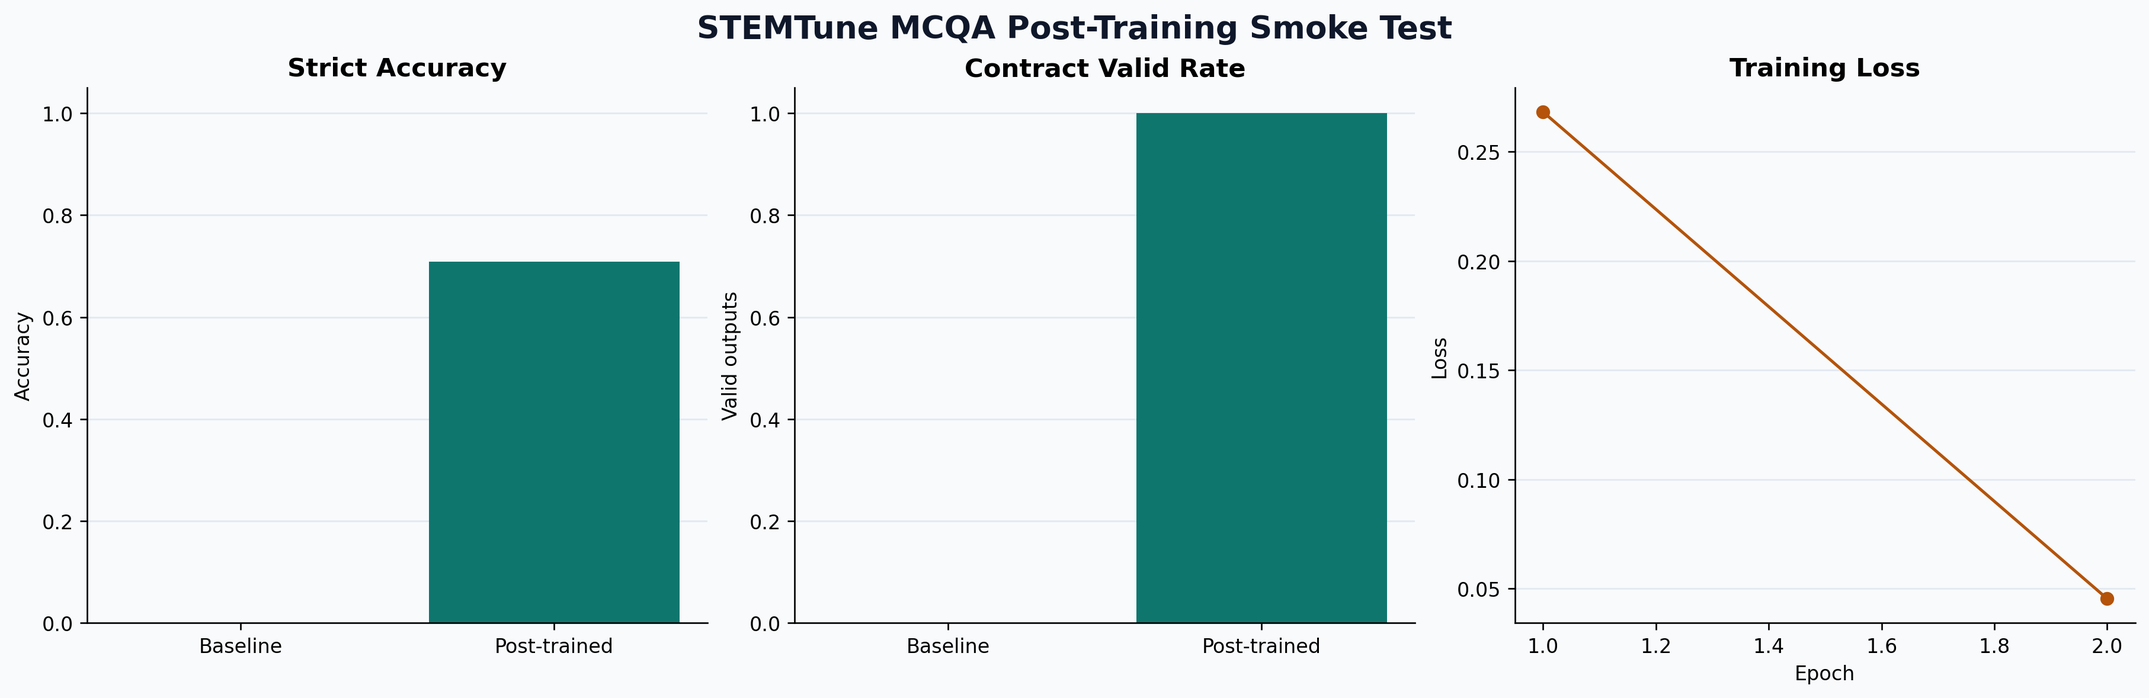
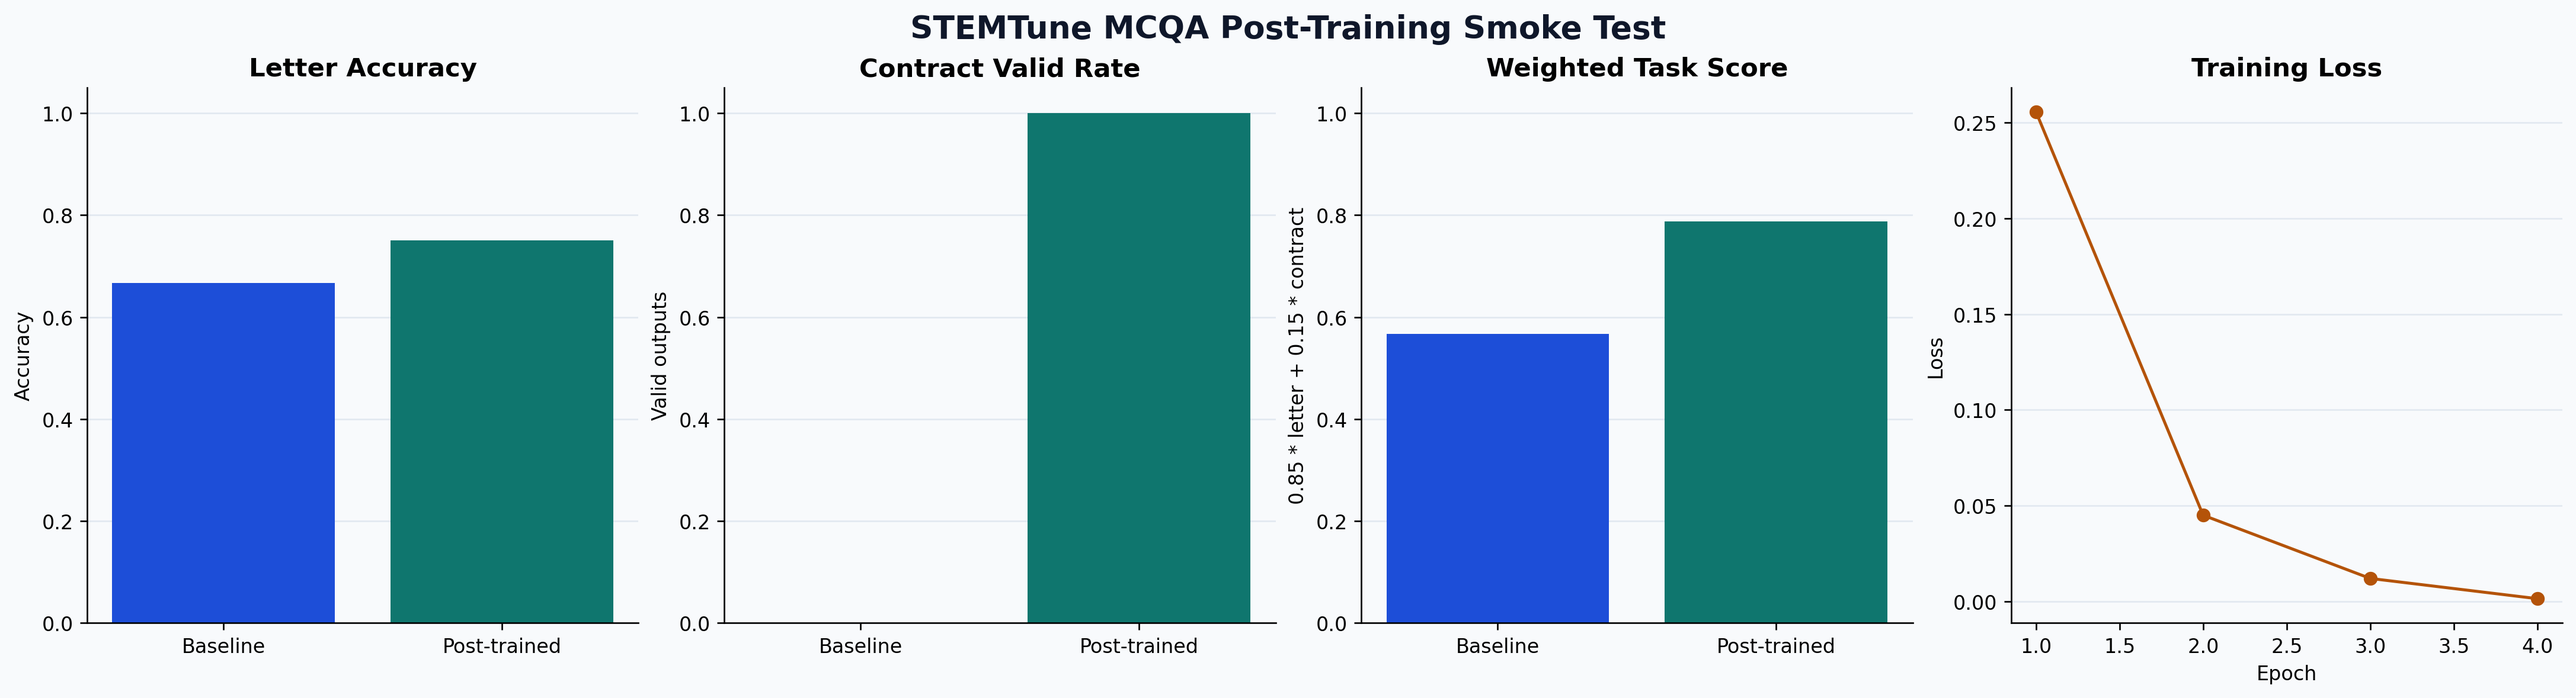
Refine post-training metrics and add GPU launcher

diff --git a/stemtune/posttrain_mcqa.py b/stemtune/posttrain_mcqa.py
@@ -25,6 +25,9 @@ CONTRACT_PATTERN = re.compile(
     r"^<final>\s*choice=([A-D])\s*source=question_only\s*</final>$",
     re.IGNORECASE | re.MULTILINE,
 )
+LETTER_PATTERN = re.compile(r"\b([A-D])\b", re.IGNORECASE)
+LETTER_WEIGHT = 0.85
+CONTRACT_WEIGHT = 0.15
 
 
 @dataclass
@@ -139,6 +142,16 @@ def parse_contract(text: str) -> tuple[bool, str | None]:
     return True, match.group(1).upper()
 
 
+def parse_letter_any(text: str) -> str | None:
+    match = LETTER_PATTERN.search(text.strip().upper())
+    if match:
+        return match.group(1).upper()
+    cleaned = text.strip().upper()
+    if cleaned[:1] in {"A", "B", "C", "D"}:
+        return cleaned[:1]
+    return None
+
+
 def generate_contract(tokenizer, model, device: str, prompt: str, max_new_tokens: int) -> tuple[str, bool, str | None, float]:
     messages = build_messages(prompt)
     rendered = render_chat(tokenizer, messages, add_generation_prompt=True)
@@ -182,6 +195,9 @@ def evaluate_phase(phase: str, examples, tokenizer, model, device: str, max_new_
             make_contract_prompt(example),
             max_new_tokens,
         )
+        letter_prediction = prediction if prediction is not None else parse_letter_any(raw_text)
+        letter_correct = letter_prediction == example.correct_letter
+        weighted_score = (LETTER_WEIGHT * float(letter_correct)) + (CONTRACT_WEIGHT * float(is_valid))
         rows.append(
             {
                 "phase": phase,
@@ -189,8 +205,11 @@ def evaluate_phase(phase: str, examples, tokenizer, model, device: str, max_new_
                 "question": example.question,
                 "correct_letter": example.correct_letter,
                 "prediction": prediction,
+                "letter_prediction": letter_prediction,
+                "letter_correct": letter_correct,
                 "is_correct": is_valid and prediction == example.correct_letter,
                 "is_valid": is_valid,
+                "weighted_score": weighted_score,
                 "latency_s": latency,
                 "raw_output": raw_text,
             }
@@ -202,11 +221,15 @@ def summarize(rows: list[dict]) -> dict:
     total = len(rows)
     correct = sum(1 for row in rows if row["is_correct"])
     valid = sum(1 for row in rows if row["is_valid"])
+    letter_correct = sum(1 for row in rows if row["letter_correct"])
+    weighted_scores = [row["weighted_score"] for row in rows]
     latencies = [row["latency_s"] for row in rows]
     return {
         "num_examples": total,
-        "accuracy": correct / total if total else 0.0,
+        "strict_accuracy": correct / total if total else 0.0,
+        "letter_accuracy": letter_correct / total if total else 0.0,
         "valid_rate": valid / total if total else 0.0,
+        "weighted_score": statistics.mean(weighted_scores) if weighted_scores else 0.0,
         "avg_latency_s": statistics.mean(latencies) if latencies else 0.0,
         "median_latency_s": statistics.median(latencies) if latencies else 0.0,
     }
@@ -261,8 +284,11 @@ def save_rows_csv(path: Path, rows: list[dict]) -> None:
         "question",
         "correct_letter",
         "prediction",
+        "letter_prediction",
+        "letter_correct",
         "is_correct",
         "is_valid",
+        "weighted_score",
         "latency_s",
         "raw_output",
     ]
@@ -290,13 +316,15 @@ def save_report_markdown(path: Path, payload: dict) -> None:
         f"- Train examples: `{payload['train_limit']}`",
         f"- Eval examples: `{payload['eval_limit']}`",
         "",
-        "| Phase | Strict Accuracy | Contract Valid Rate | Avg Latency (s) |",
-        "|---|---:|---:|---:|",
-        f"| Baseline | {baseline['accuracy']:.3f} | {baseline['valid_rate']:.3f} | {baseline['avg_latency_s']:.3f} |",
-        f"| After tiny LoRA post-training | {adapted['accuracy']:.3f} | {adapted['valid_rate']:.3f} | {adapted['avg_latency_s']:.3f} |",
+        "| Phase | Letter Accuracy | Contract Valid Rate | Strict Accuracy | Weighted Score | Avg Latency (s) |",
+        "|---|---:|---:|---:|---:|---:|",
+        f"| Baseline | {baseline['letter_accuracy']:.3f} | {baseline['valid_rate']:.3f} | {baseline['strict_accuracy']:.3f} | {baseline['weighted_score']:.3f} | {baseline['avg_latency_s']:.3f} |",
+        f"| After tiny LoRA post-training | {adapted['letter_accuracy']:.3f} | {adapted['valid_rate']:.3f} | {adapted['strict_accuracy']:.3f} | {adapted['weighted_score']:.3f} | {adapted['avg_latency_s']:.3f} |",
         "",
-        f"- Strict accuracy gain: `{adapted['accuracy'] - baseline['accuracy']:+.3f}`",
+        f"- Letter accuracy gain: `{adapted['letter_accuracy'] - baseline['letter_accuracy']:+.3f}`",
         f"- Contract-valid gain: `{adapted['valid_rate'] - baseline['valid_rate']:+.3f}`",
+        f"- Strict accuracy gain: `{adapted['strict_accuracy'] - baseline['strict_accuracy']:+.3f}`",
+        f"- Weighted score gain: `{adapted['weighted_score'] - baseline['weighted_score']:+.3f}`",
     ]
     path.write_text("\n".join(lines) + "\n", encoding="utf-8")
 
@@ -306,13 +334,13 @@ def save_plot(path: Path, payload: dict) -> None:
     adapted = payload["summary"]["adapted"]
     history = payload["training_history"]
 
-    fig, axes = plt.subplots(1, 3, figsize=(15, 4.8), constrained_layout=True)
+    fig, axes = plt.subplots(1, 4, figsize=(18, 4.8), constrained_layout=True)
     fig.patch.set_facecolor("#f8fafc")
     colors = ["#1d4ed8", "#0f766e"]
 
-    axes[0].bar(["Baseline", "Post-trained"], [baseline["accuracy"], adapted["accuracy"]], color=colors)
+    axes[0].bar(["Baseline", "Post-trained"], [baseline["letter_accuracy"], adapted["letter_accuracy"]], color=colors)
     axes[0].set_ylim(0, 1.05)
-    axes[0].set_title("Strict Accuracy", fontsize=13, fontweight="bold")
+    axes[0].set_title("Letter Accuracy", fontsize=13, fontweight="bold")
     axes[0].set_ylabel("Accuracy")
 
     axes[1].bar(["Baseline", "Post-trained"], [baseline["valid_rate"], adapted["valid_rate"]], color=colors)
@@ -320,10 +348,15 @@ def save_plot(path: Path, payload: dict) -> None:
     axes[1].set_title("Contract Valid Rate", fontsize=13, fontweight="bold")
     axes[1].set_ylabel("Valid outputs")
 
-    axes[2].plot([item["epoch"] for item in history], [item["loss_mean"] for item in history], marker="o", color="#b45309")
-    axes[2].set_title("Training Loss", fontsize=13, fontweight="bold")
-    axes[2].set_xlabel("Epoch")
-    axes[2].set_ylabel("Loss")
+    axes[2].bar(["Baseline", "Post-trained"], [baseline["weighted_score"], adapted["weighted_score"]], color=colors)
+    axes[2].set_ylim(0, 1.05)
+    axes[2].set_title("Weighted Task Score", fontsize=13, fontweight="bold")
+    axes[2].set_ylabel("0.85 * letter + 0.15 * contract")
+
+    axes[3].plot([item["epoch"] for item in history], [item["loss_mean"] for item in history], marker="o", color="#b45309")
+    axes[3].set_title("Training Loss", fontsize=13, fontweight="bold")
+    axes[3].set_xlabel("Epoch")
+    axes[3].set_ylabel("Loss")
 
     for ax in axes:
         ax.spines["top"].set_visible(False)

diff --git a/stemtune/select_stack.py b/stemtune/select_stack.py
@@ -452,6 +452,7 @@ def build_posttrain_mcqa_parser(subparsers: argparse._SubParsersAction) -> None:
     parser.add_argument("--max-length", type=int, default=256)
     parser.add_argument("--max-new-tokens", type=int, default=64)
     parser.add_argument("--output-dir", default="docs/results/mcqa_posttrain_smoke")
+    parser.add_argument("--save-adapter", action="store_true")
     parser.add_argument("--output", choices=["text", "json"], default="text")
     parser.set_defaults(handler=handle_posttrain_mcqa)
 
@@ -655,11 +656,16 @@ def handle_posttrain_mcqa(args: argparse.Namespace) -> str:
         f"Train examples: {payload['train_limit']}",
         f"Eval examples: {payload['eval_limit']}",
         "",
-        f"Baseline strict accuracy: {baseline['accuracy']:.3f}",
-        f"Post-trained strict accuracy: {adapted['accuracy']:.3f}",
-        f"Strict accuracy gain: {adapted['accuracy'] - baseline['accuracy']:+.3f}",
+        f"Baseline letter accuracy: {baseline['letter_accuracy']:.3f}",
+        f"Post-trained letter accuracy: {adapted['letter_accuracy']:.3f}",
+        f"Letter accuracy gain: {adapted['letter_accuracy'] - baseline['letter_accuracy']:+.3f}",
+        f"Baseline strict accuracy: {baseline['strict_accuracy']:.3f}",
+        f"Post-trained strict accuracy: {adapted['strict_accuracy']:.3f}",
+        f"Strict accuracy gain: {adapted['strict_accuracy'] - baseline['strict_accuracy']:+.3f}",
         f"Baseline valid rate: {baseline['valid_rate']:.3f}",
         f"Post-trained valid rate: {adapted['valid_rate']:.3f}",
+        f"Baseline weighted score: {baseline['weighted_score']:.3f}",
+        f"Post-trained weighted score: {adapted['weighted_score']:.3f}",
         "",
         f"Artifacts: {args.output_dir}",
     ]

diff --git a/docs/results/mcqa_posttrain_smoke/report.md b/docs/results/mcqa_posttrain_smoke/report.md
@@ -8,10 +8,12 @@ This smoke test measures contract-compliant task behavior, not just raw answer a
 - Train examples: `32`
 - Eval examples: `24`
 
-| Phase | Strict Accuracy | Contract Valid Rate | Avg Latency (s) |
-|---|---:|---:|---:|
-| Baseline | 0.000 | 0.000 | 0.314 |
-| After tiny LoRA post-training | 0.708 | 1.000 | 1.740 |
+| Phase | Letter Accuracy | Contract Valid Rate | Strict Accuracy | Weighted Score | Avg Latency (s) |
+|---|---:|---:|---:|---:|---:|
+| Baseline | 0.667 | 0.000 | 0.000 | 0.567 | 0.319 |
+| After tiny LoRA post-training | 0.750 | 1.000 | 0.750 | 0.787 | 2.011 |
 
-- Strict accuracy gain: `+0.708`
+- Letter accuracy gain: `+0.083`
 - Contract-valid gain: `+1.000`
+- Strict accuracy gain: `+0.750`
+- Weighted score gain: `+0.221`

diff --git a/cluster/README.md b/cluster/README.md
@@ -31,6 +31,28 @@ The job writes:
 - `predictions.csv`
 - `seed_summary.csv`
 
+For the tiny post-training smoke test:
+
+```bash
+bash cluster/submit_mcqa_posttrain.sh /path/to/venv/bin/activate
+```
+
+Useful overrides:
+
+```bash
+PARTITION=mit_normal_gpu \
+GRES=gpu:1 \
+CPUS_PER_TASK=8 \
+MEMORY_GB=32 \
+TIME_LIMIT=02:00:00 \
+MODEL_ID=Qwen/Qwen2.5-0.5B-Instruct \
+TRAIN_LIMIT=32 \
+EVAL_LIMIT=24 \
+EPOCHS=4 \
+OUTPUT_DIR=docs/results/mcqa_posttrain_smoke_gpu \
+bash cluster/submit_mcqa_posttrain.sh /path/to/venv/bin/activate
+```
+
 Recommended partitions from the current cluster snapshot:
 
 - `mit_normal_gpu`: first choice for a short, non-preemptable GPU run.

diff --git a/README.md b/README.md
@@ -64,10 +64,14 @@ python -m stemtune posttrain-mcqa \
 
 Tracked result in this repo:
 
+- baseline letter accuracy: `0.667`
+- post-trained letter accuracy: `0.750`
 - baseline strict accuracy: `0.000`
-- post-trained strict accuracy: `0.708`
+- post-trained strict accuracy: `0.750`
 - baseline contract-valid rate: `0.000`
 - post-trained contract-valid rate: `1.000`
+- baseline weighted score: `0.567`
+- post-trained weighted score: `0.788`
 
 Artifacts:
 

diff --git a/stemtune/README.md b/stemtune/README.md
@@ -77,8 +77,10 @@ It fine-tunes a tiny LoRA adapter on `allenai/sciq` and evaluates whether the ad
 
 In the current tracked result:
 
-- strict accuracy moves from `0.000` to `0.708`
+- letter accuracy moves from `0.667` to `0.750`
+- strict accuracy moves from `0.000` to `0.750`
 - contract-valid rate moves from `0.000` to `1.000`
+- weighted score moves from `0.567` to `0.788`
 
 ## Multi-Seed Benchmark
 
